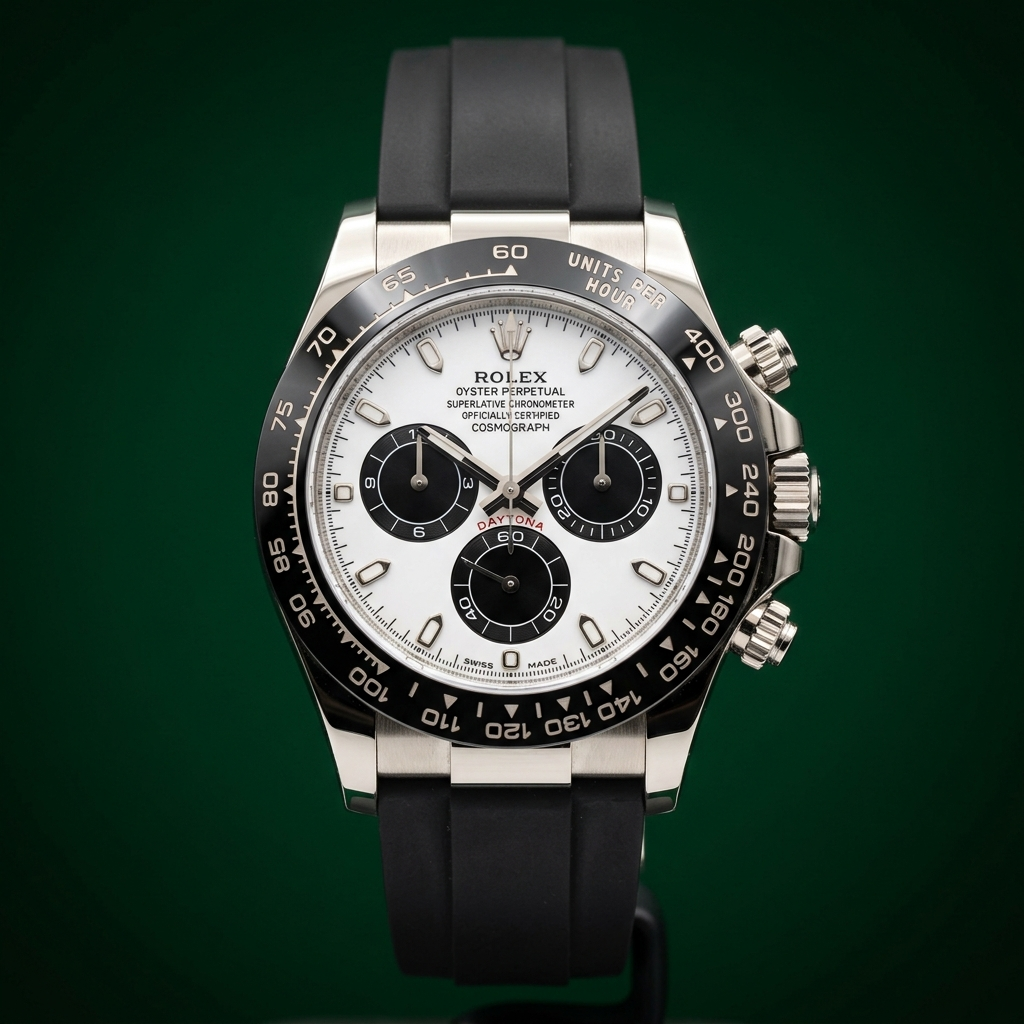
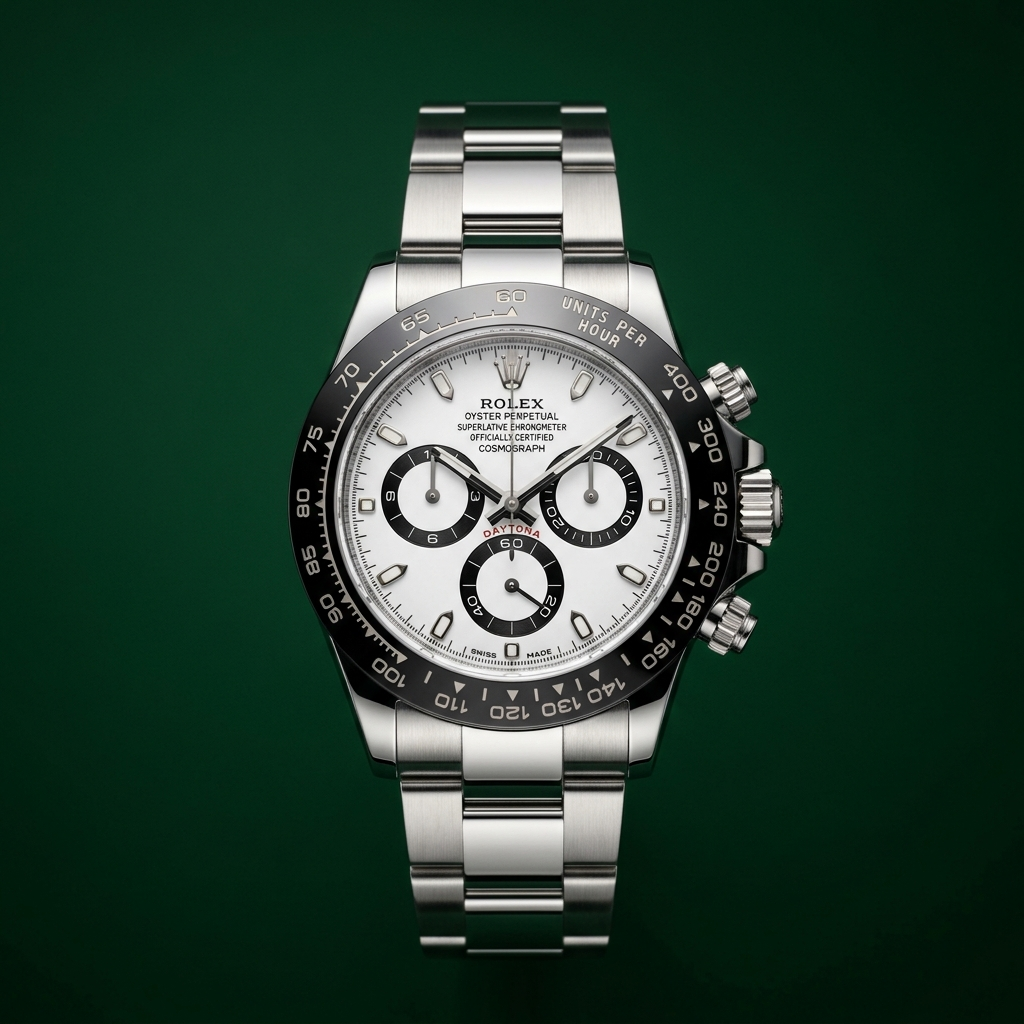
Update Daytona image to steel and add Rubber B text

Changed region(s): [[0.25, 0.0312, 0.8125, 0.9375]]

diff --git a/src/App.jsx b/src/App.jsx
@@ -24,7 +24,7 @@ const translations = {
     collection_title: "Off-Market",
     collection_desc: "Un aperçu confidentiel de nos pièces actuellement sous voûte.",
     watch1_title: "Rolex Daytona 'Panda'",
-    watch1_brand: "116519LN - 2020 Full Set",
+    watch1_brand: "116519LN - 2020 Full Set + Rubber B offert",
     watch2_title: "Cosmic Gold",
     watch2_brand: "Or Massif 18k - Chronographe",
     btn_request: "Nous Contacter",
@@ -78,7 +78,7 @@ const translations = {
     collection_title: "Off-Market",
     collection_desc: "A confidential glimpse into the pieces currently in our vault.",
     watch1_title: "Rolex Daytona 'Panda'",
-    watch1_brand: "116519LN - 2020 Full Set",
+    watch1_brand: "116519LN - 2020 Full Set + Free Rubber B Strap",
     watch2_title: "Cosmic Gold",
     watch2_brand: "Solid 18k - Chronograph",
     btn_request: "Contact Us",
@@ -130,7 +130,7 @@ const translations = {
     collection_title: "خارج السوق الأساسي",
     collection_desc: "لمحة سرية عن القطع الموجودة حالياً في خزينتنا.",
     watch1_title: "رولكس دايتونا باندا",
-    watch1_brand: "116519LN - طقم كامل 2020",
+    watch1_brand: "116519LN - طقم كامل 2020 + حزام Rubber B مجاني",
     watch2_title: "كوزميك جولد",
     watch2_brand: "ذهب خالص عيار 18 - كرونوغراف",
     btn_request: "اتصل بنا",
